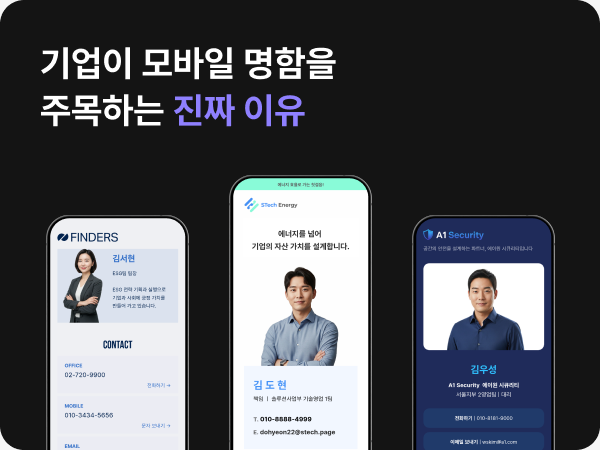
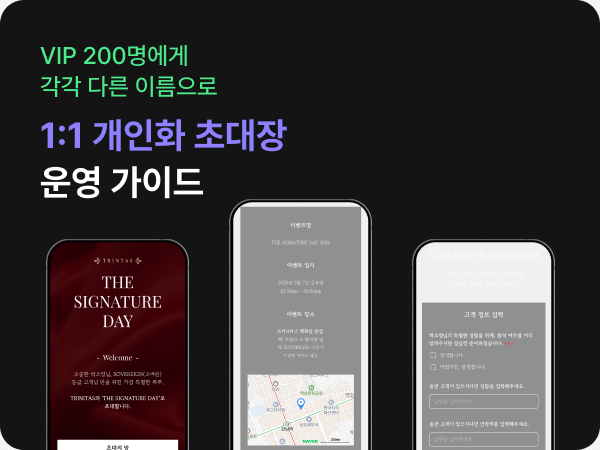
vault backup: 2026-06-19 12:26:59

diff --git a/블로그/썸네일/시안 로그/2026-06-19 VIP 200명 1:1 개인화 초대장.md b/블로그/썸네일/시안 로그/2026-06-19 VIP 200명 1:1 개인화 초대장.md
@@ -144,9 +144,51 @@ sub.name = "SUBTITLE"; ttl.name = "TITLE";
 - [[블로그/썸네일/1. 디자인 가이드/1-2. 레이아웃/1-2-2. 레이아웃별 레퍼런스 노드.md]] 또는 §2.2 사용 절차에 **"슬롯 마스터 1:1246 노드 이름 정상화 필요"** 노트 추가 — 직접 슬롯 마스터에서 노드명을 `SUBTITLE`/`TITLE`로 rename
 - [[블로그/썸네일/2. 자동화 체크리스트.md]] §자주 놓치는 추가 — "텍스트 노드 findOne 매칭은 name 기반 우선 + 위치 fallback (TEXT_BLOCK 자식 중 y 정렬)"
 
-### 사고 #3 (없음) — C 슬롯 width 460 확장 정상 작동 ✅
+### 사고 #3 — A 슬롯 VISUAL_SLOT 자식 0개 (mockup instance 부재) ⭐ NEW (사용자 지적으로 발견)
 
-C5·C6 초기 빌드에 TITLE width 460 확장 적용 → "1:1 개인화 초대장\n운영 가이드" 2줄 정상. 사고 없음.
+**증상**: A1·A2 초기 빌드 후 사용자 지적 — "캡쳐 화면을 목업에 정확히 넣지 못하고 있어". mockup phone 베젤이 안 보이고 viewer 캡처가 빈 사각형에 직접 채워짐.
+
+**원인**: 슬롯 마스터 `1:1269`(A 상단·서브)와 `1:1246`(A 하단·서브)의 VISUAL_SLOT(`240:236`, `240:238`)이 **자식 0개 빈 frame placeholder**. 가이드 [[1-3-1. 이미지 규칙]] §1.1.a "applyMockup()" — 자동화가 mockup instance를 추가하고 그 안 screen rect에 fill해야 했지만, 초기 빌드 코드의 `fillA`가 VISUAL_SLOT 자체에 IMAGE FILL만 적용 → mockup 없이 viewer만 빈 사각형에 채워짐.
+
+C 유형은 같은 코드에서 이미 `75:34` mockup instance를 자동 추가하는 패턴 사용 → C5·C6 정상. **A 유형만 누락**.
+
+**사용자가 정확히 가리킨 노드**: `454:339` = A2의 VISUAL_SLOT — 빈 frame에 personalized RSVP 캡처가 직접 fill되어 배경 색감(다크 와인)이 mockup 베젤 없이 노출됨.
+
+**해결**: A1·A2에 C 유형과 동일 mockup 패턴 적용:
+```js
+const inst = mockMaster.createInstance();  // 75:34 원페이지 mockup
+inst.rescale(slot.width / inst.width);
+inst.x = slot.x; inst.y = slot.y;
+inst.effects = slot.effects;  // 보라 글로우 effect 전파 (가이드 §3.1)
+frame.appendChild(inst);
+
+const screen = findScreen(inst);  // 비율 0.4535 매칭 rect
+screen.fills = [{ type: "IMAGE", scaleMode: "FILL", imageHash }];
+
+slot.fills = []; slot.strokes = [];  // placeholder 정리
+```
+
+**룰 갱신 필요** (P1):
+- [[블로그/썸네일/2. 자동화 체크리스트.md]] §자주 놓치는 추가 — "A 유형 VISUAL_SLOT은 자식 0개 빈 frame — 자동화가 mockup instance(75:34) + screen rect fill 필수. C 유형과 동일 패턴. VISUAL_SLOT 자체에 IMAGE FILL ❌"
+
+### 사고 #4 — 강조어 char count 오류 (9 vs 11) ⭐ NEW (사용자 지적으로 발견)
+
+**증상**: 사용자 지적 — A2에서 "[1:1 개인화 초] 이렇게 단어가 끊겨서 강조색상이 들어갔어".
+
+**원인**: 강조어 "1:1 개인화 초대장"을 빌드 코드에서 `EMPH = 9`로 셈했는데 **정확한 char count는 11**:
+- 1, :, 1, (space), 개, 인, 화, (space), 초, 대, 장 = **11자**
+
+`setRangeFills(0, 9, [PURPLE])`이 적용되면서 "1:1 개인화 초"까지만(9자) 보라색 → "대장" 흰색 → 의미 단위 잘림 (§텍스트 절대원칙 ④ 위반).
+
+**해결**: 6안 모두 `setRangeFills(0, 11, [PURPLE])` 재적용 + TITLE 본문 fill을 흰색으로 reset 후 0~11 보라 재적용 (이전 흔적 제거).
+
+**룰 갱신 필요** (P1):
+- [[블로그/썸네일/2. 자동화 체크리스트.md]] §0 ⑤ + §자주 놓치는 #11 — **"강조어 char count는 한글 자모 단위가 아니라 UTF-16 char 단위. 빌드 전 `Array.from(emphasis).length` 또는 `emphasis.length`로 정확히 측정 + 빌드 시 console.log로 검수"** 추가
+- [[블로그/썸네일/3. 검수 체크리스트.md]] ④ "강조 영역 1개 / 의미 단위" 항목에 "강조어 char count = 실제 setRangeFills end 위치인지 빌드 후 시각 확인"
+
+### 사고 #5 (없음) — C 슬롯 width 460 확장 정상 작동 ✅
+
+C5·C6 초기 빌드에 TITLE width 460 확장 적용 → "1:1 개인화 초대장\n운영 가이드" 2줄 정상. width 부분은 사고 없음 (단 강조어 char count는 #4와 동일 적용).
 
 ---
 
